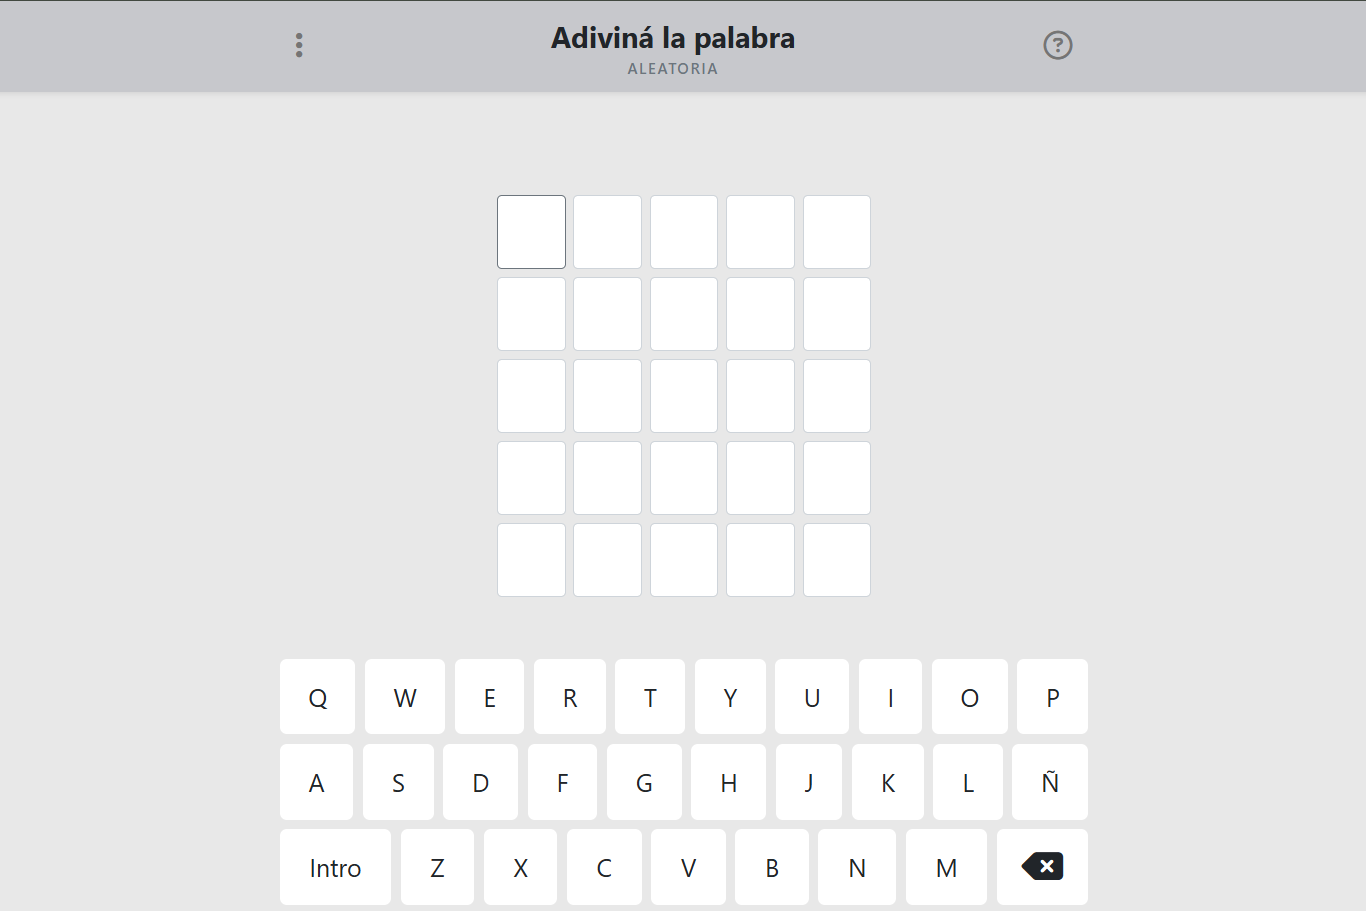
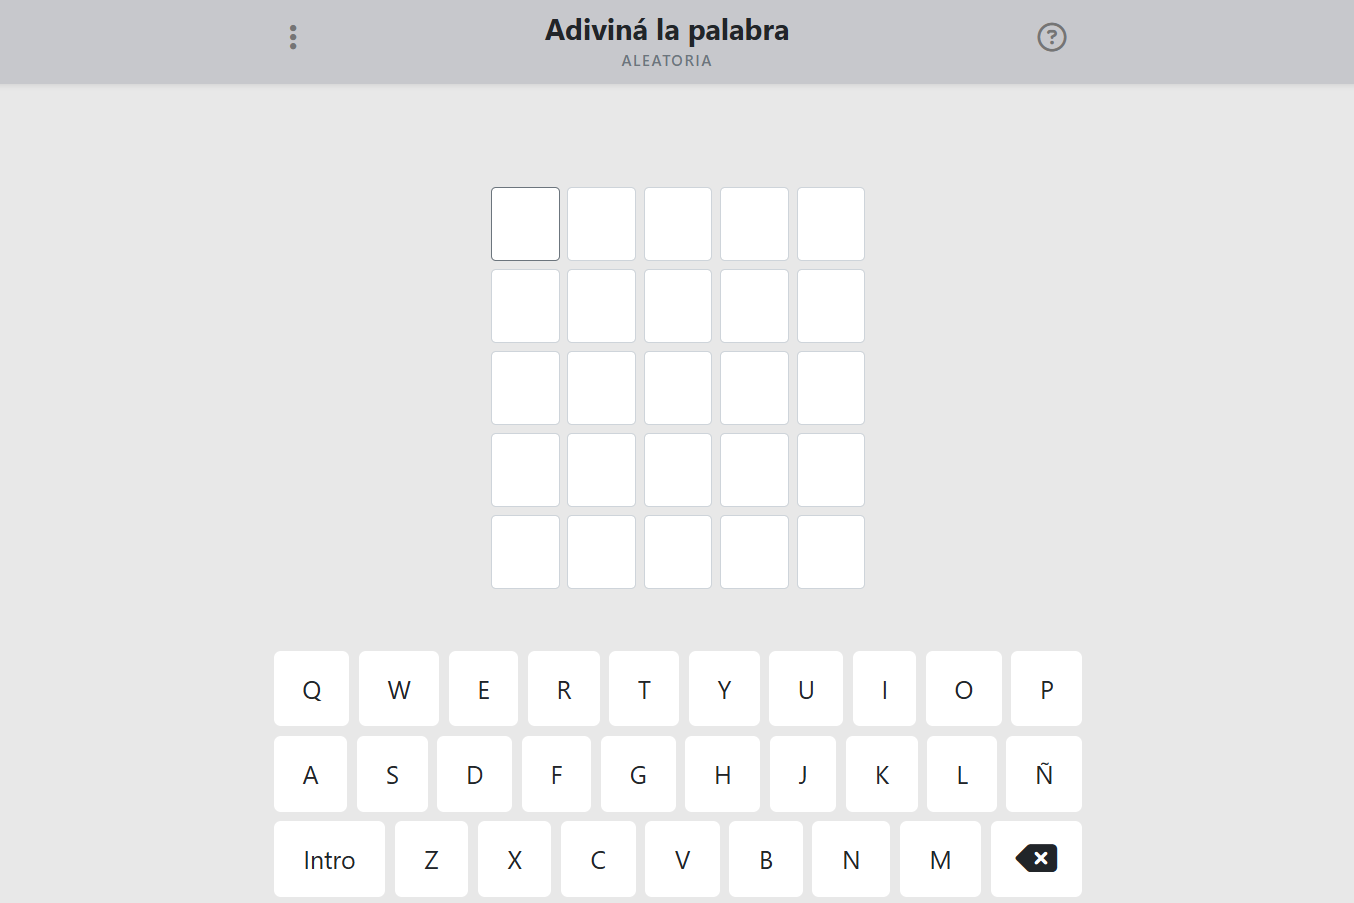
Recorta la línea del browser en la captura de Adiviná la palabra, cápsulas más chicas en mobile y cambia TypeScript por n8n en Dólar info hoy

diff --git a/src/data/projects.js b/src/data/projects.js
@@ -31,11 +31,10 @@ export const projects = [
     images: [dolarinfohoy, dolarinfohoy5, dolarinfohoy2, dolarinfohoy3, dolarinfohoy4],
     alt: "Dólar info hoy",
     // Máximo 4: con más, el contenedor de chips parte en dos filas y a ciertos
-    // anchos deja una sola cápsula huérfana en el segundo renglón. n8n y
-    // Tailwind quedan fuera porque n8n ya se nombra en la descripción y Tailwind
-    // no distingue nada. Next.js queda afuera por React: alguien que escanea
-    // chips no infiere que Next.js implica React si no conoce esa relación.
-    techs: ["React", "TypeScript", "Supabase", "Gemini"],
+    // anchos deja una sola cápsula huérfana en el segundo renglón. Next.js
+    // queda afuera por React: alguien que escanea chips no infiere que
+    // Next.js implica React si no conoce esa relación.
+    techs: ["React", "n8n", "Supabase", "Gemini"],
     github: "https://github.com/LautaroManzo/dolar-hoy-lm",
     demo: "https://www.dolarinfohoy.com.ar/",
   },

diff --git a/src/components/ProjectCard.jsx b/src/components/ProjectCard.jsx
@@ -132,7 +132,7 @@ const ProjectCard = ({
             {techs.map((tech) => (
               <span
                 key={tech}
-                className="font-mono text-[10px] md:text-xs tracking-[0.02em] text-ink-muted bg-chip border border-line px-3 py-[5px] rounded-full"
+                className="font-mono text-[9px] md:text-xs tracking-[0.02em] text-ink-muted bg-chip border border-line px-2.5 py-1 md:px-3 md:py-[5px] rounded-full"
               >
                 {tech}
               </span>
